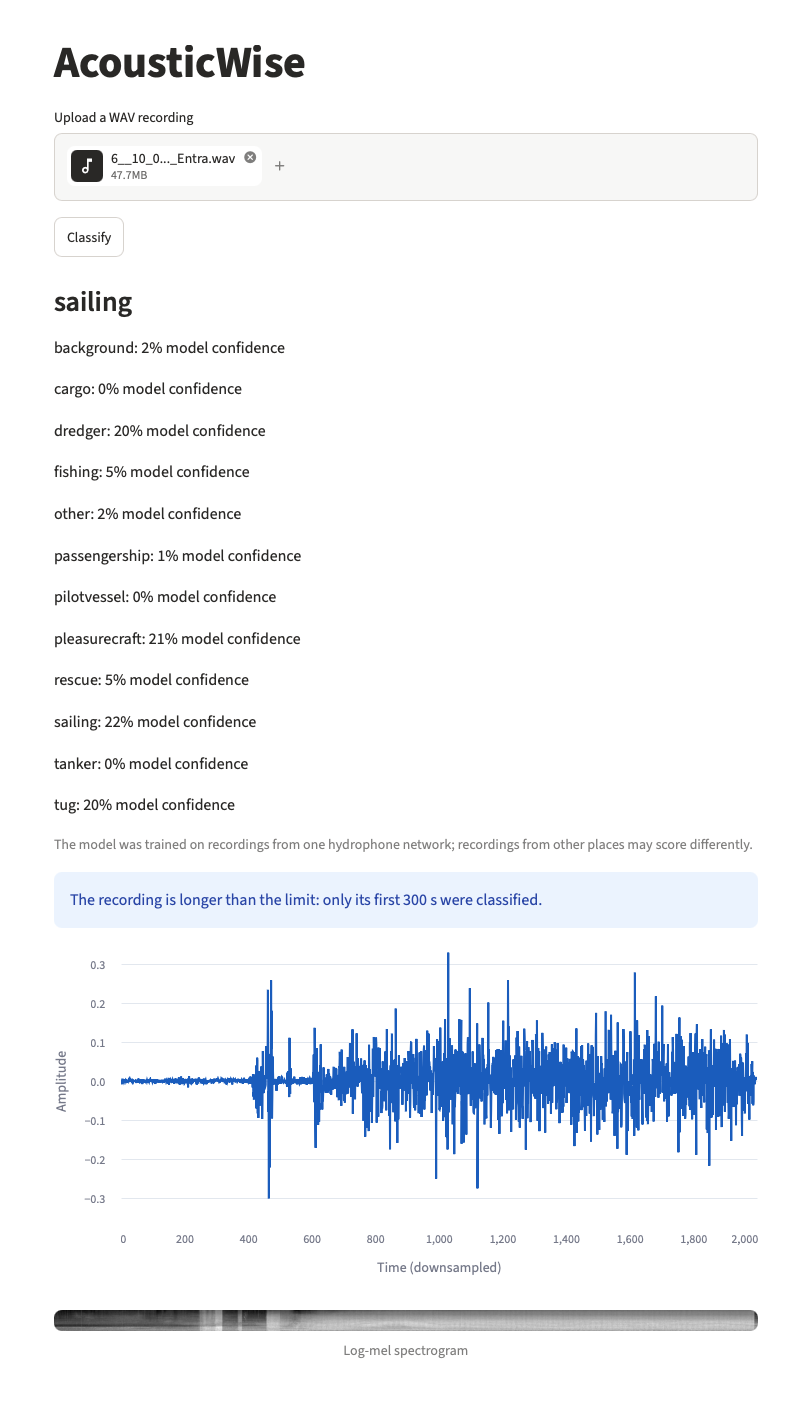
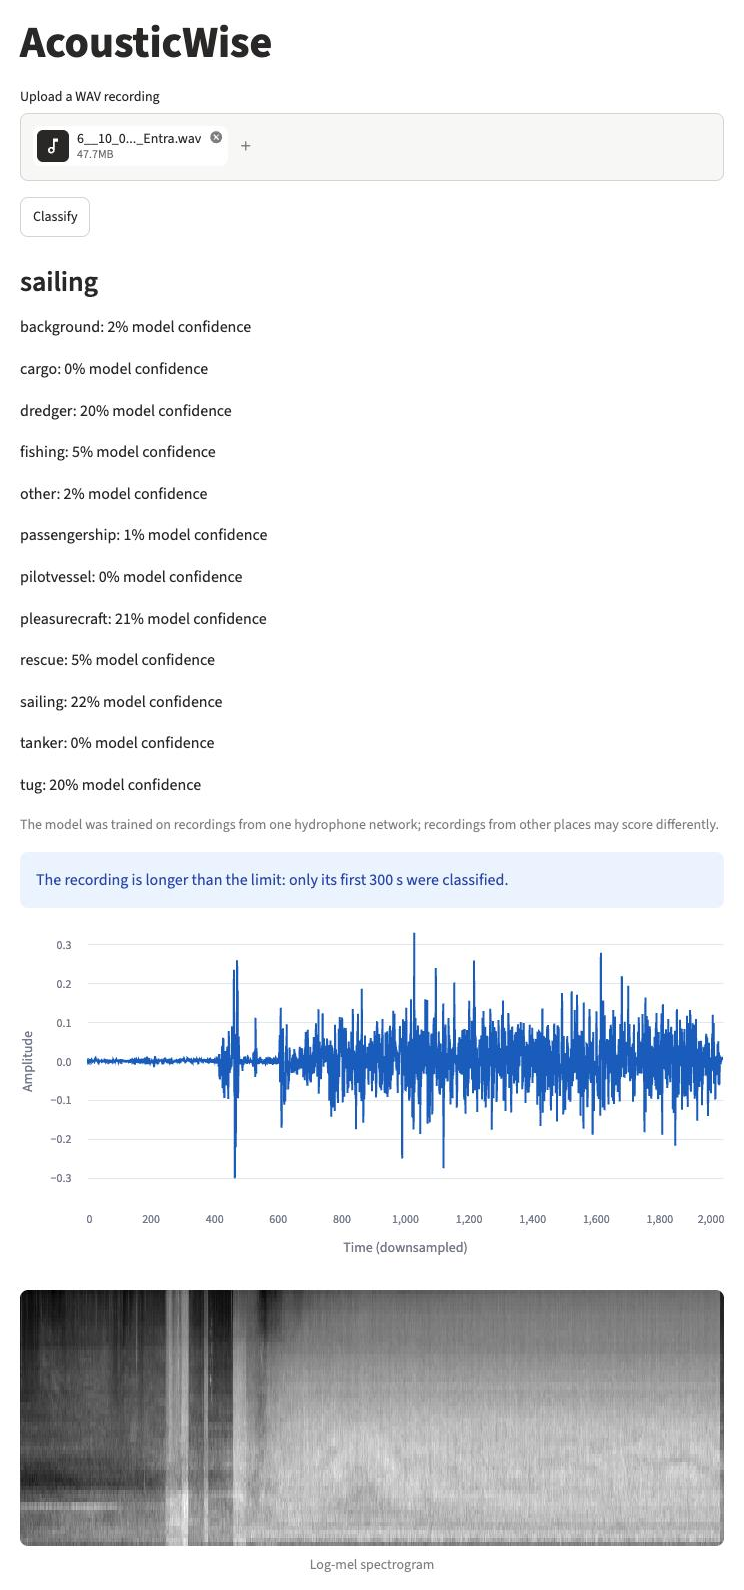
Docs: new app screenshot with the readable spectrogram

diff --git a/README.md b/README.md
@@ -19,8 +19,6 @@ uv run acousticwise-app
 
 The model is the CNN trained on fold 1 (1 MB; the `shasum` line checks the download). Upload a WAV of at least 4 s; audio over 300 s is classified on its first 300 s. Set `ACOUSTICWISE_RUN_DIR` to serve another run.
 
-![A too-short upload gets a clear message](docs/images/app-error.png)
-
 ## How it works
 
 ```mermaid
